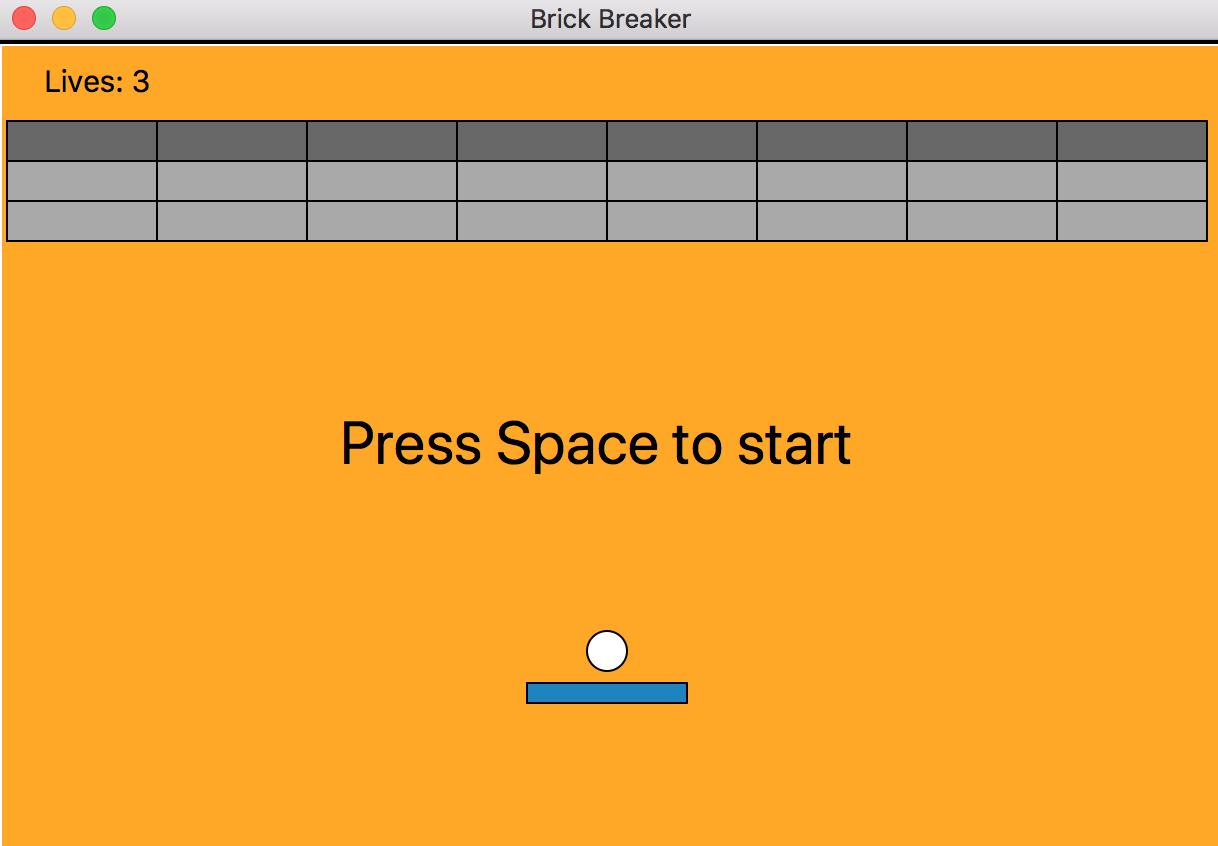
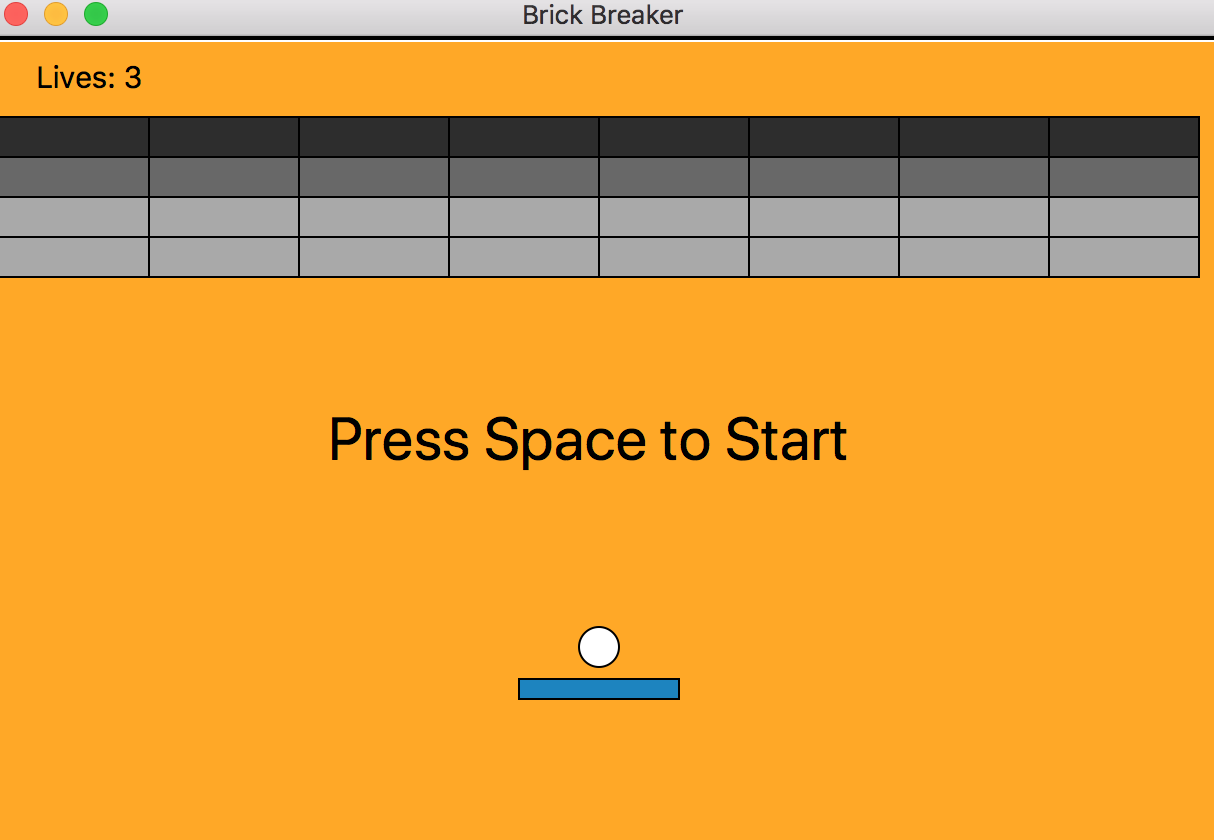
CHG: add an additional row of bricks; set the constant variables

Changed region(s): [[0.0, 0.0, 1.0, 0.3405], [0.2743, 0.4952, 0.701, 0.5571], [0.4267, 0.7429, 0.5791, 0.8357]]

diff --git a/brickBreaker/src/game.py b/brickBreaker/src/game.py
@@ -32,9 +32,10 @@ class Game(tk.Frame):
         self.items[self.paddle.item] = self.paddle
 
         for x in range(5, self.width - 5, BRICK_WIDTH):
-            self.add_brick(x + BRICK_WIDTH / 2, 50, 2)
-            self.add_brick(x + BRICK_WIDTH / 2, 70, 1)
+            self.add_brick(x + BRICK_WIDTH / 2, 50, 3)
+            self.add_brick(x + BRICK_WIDTH / 2, 70, 2)
             self.add_brick(x + BRICK_WIDTH / 2, 90, 1)
+            self.add_brick(x + BRICK_WIDTH / 2, 110, 1)
 
         self.hud = None
         self.setup_game()
@@ -45,7 +46,7 @@ class Game(tk.Frame):
     def setup_game(self) -> None:
         self.add_ball()
         self.update_lives_text()
-        self.text = self.draw_text(300, 200, "Press Space to start", 30)
+        self.text = self.draw_text(300, 200, "Press Space to Start", 30)
         self.canvas.bind("<space>", lambda _: self.start_game())
 
     def add_ball(self):
@@ -83,7 +84,7 @@ class Game(tk.Frame):
         num_bricks = len(self.canvas.find_withtag("brick"))
         if num_bricks == 0:
             self.ball.speed = None
-            self.draw_text(300, 200, "You win!")
+            self.draw_text(300, 200, "You Win!")
         elif self.ball.get_position()[3] >= self.height:
             self.ball.speed = None
             self.lives -= 1

diff --git a/brickBreaker/src/game_object/ball.py b/brickBreaker/src/game_object/ball.py
@@ -10,13 +10,15 @@ DIRECTIONS = {
     "top_right": [1, -1],
     "bottom_left": [-1, 1],
 }
+BALL_RADIUS = 10
+BALL_SPEED = 5
 
 
 class Ball(GameObject):
     def __init__(self, canvas: tk.Canvas, x: int, y: int) -> None:
-        self.radius = 10
+        self.radius = BALL_RADIUS
         self.direction = DIRECTIONS["top_right"]
-        self.speed = 5
+        self.speed = BALL_SPEED
         item = canvas.create_oval(
             x - self.radius,
             y - self.radius,
